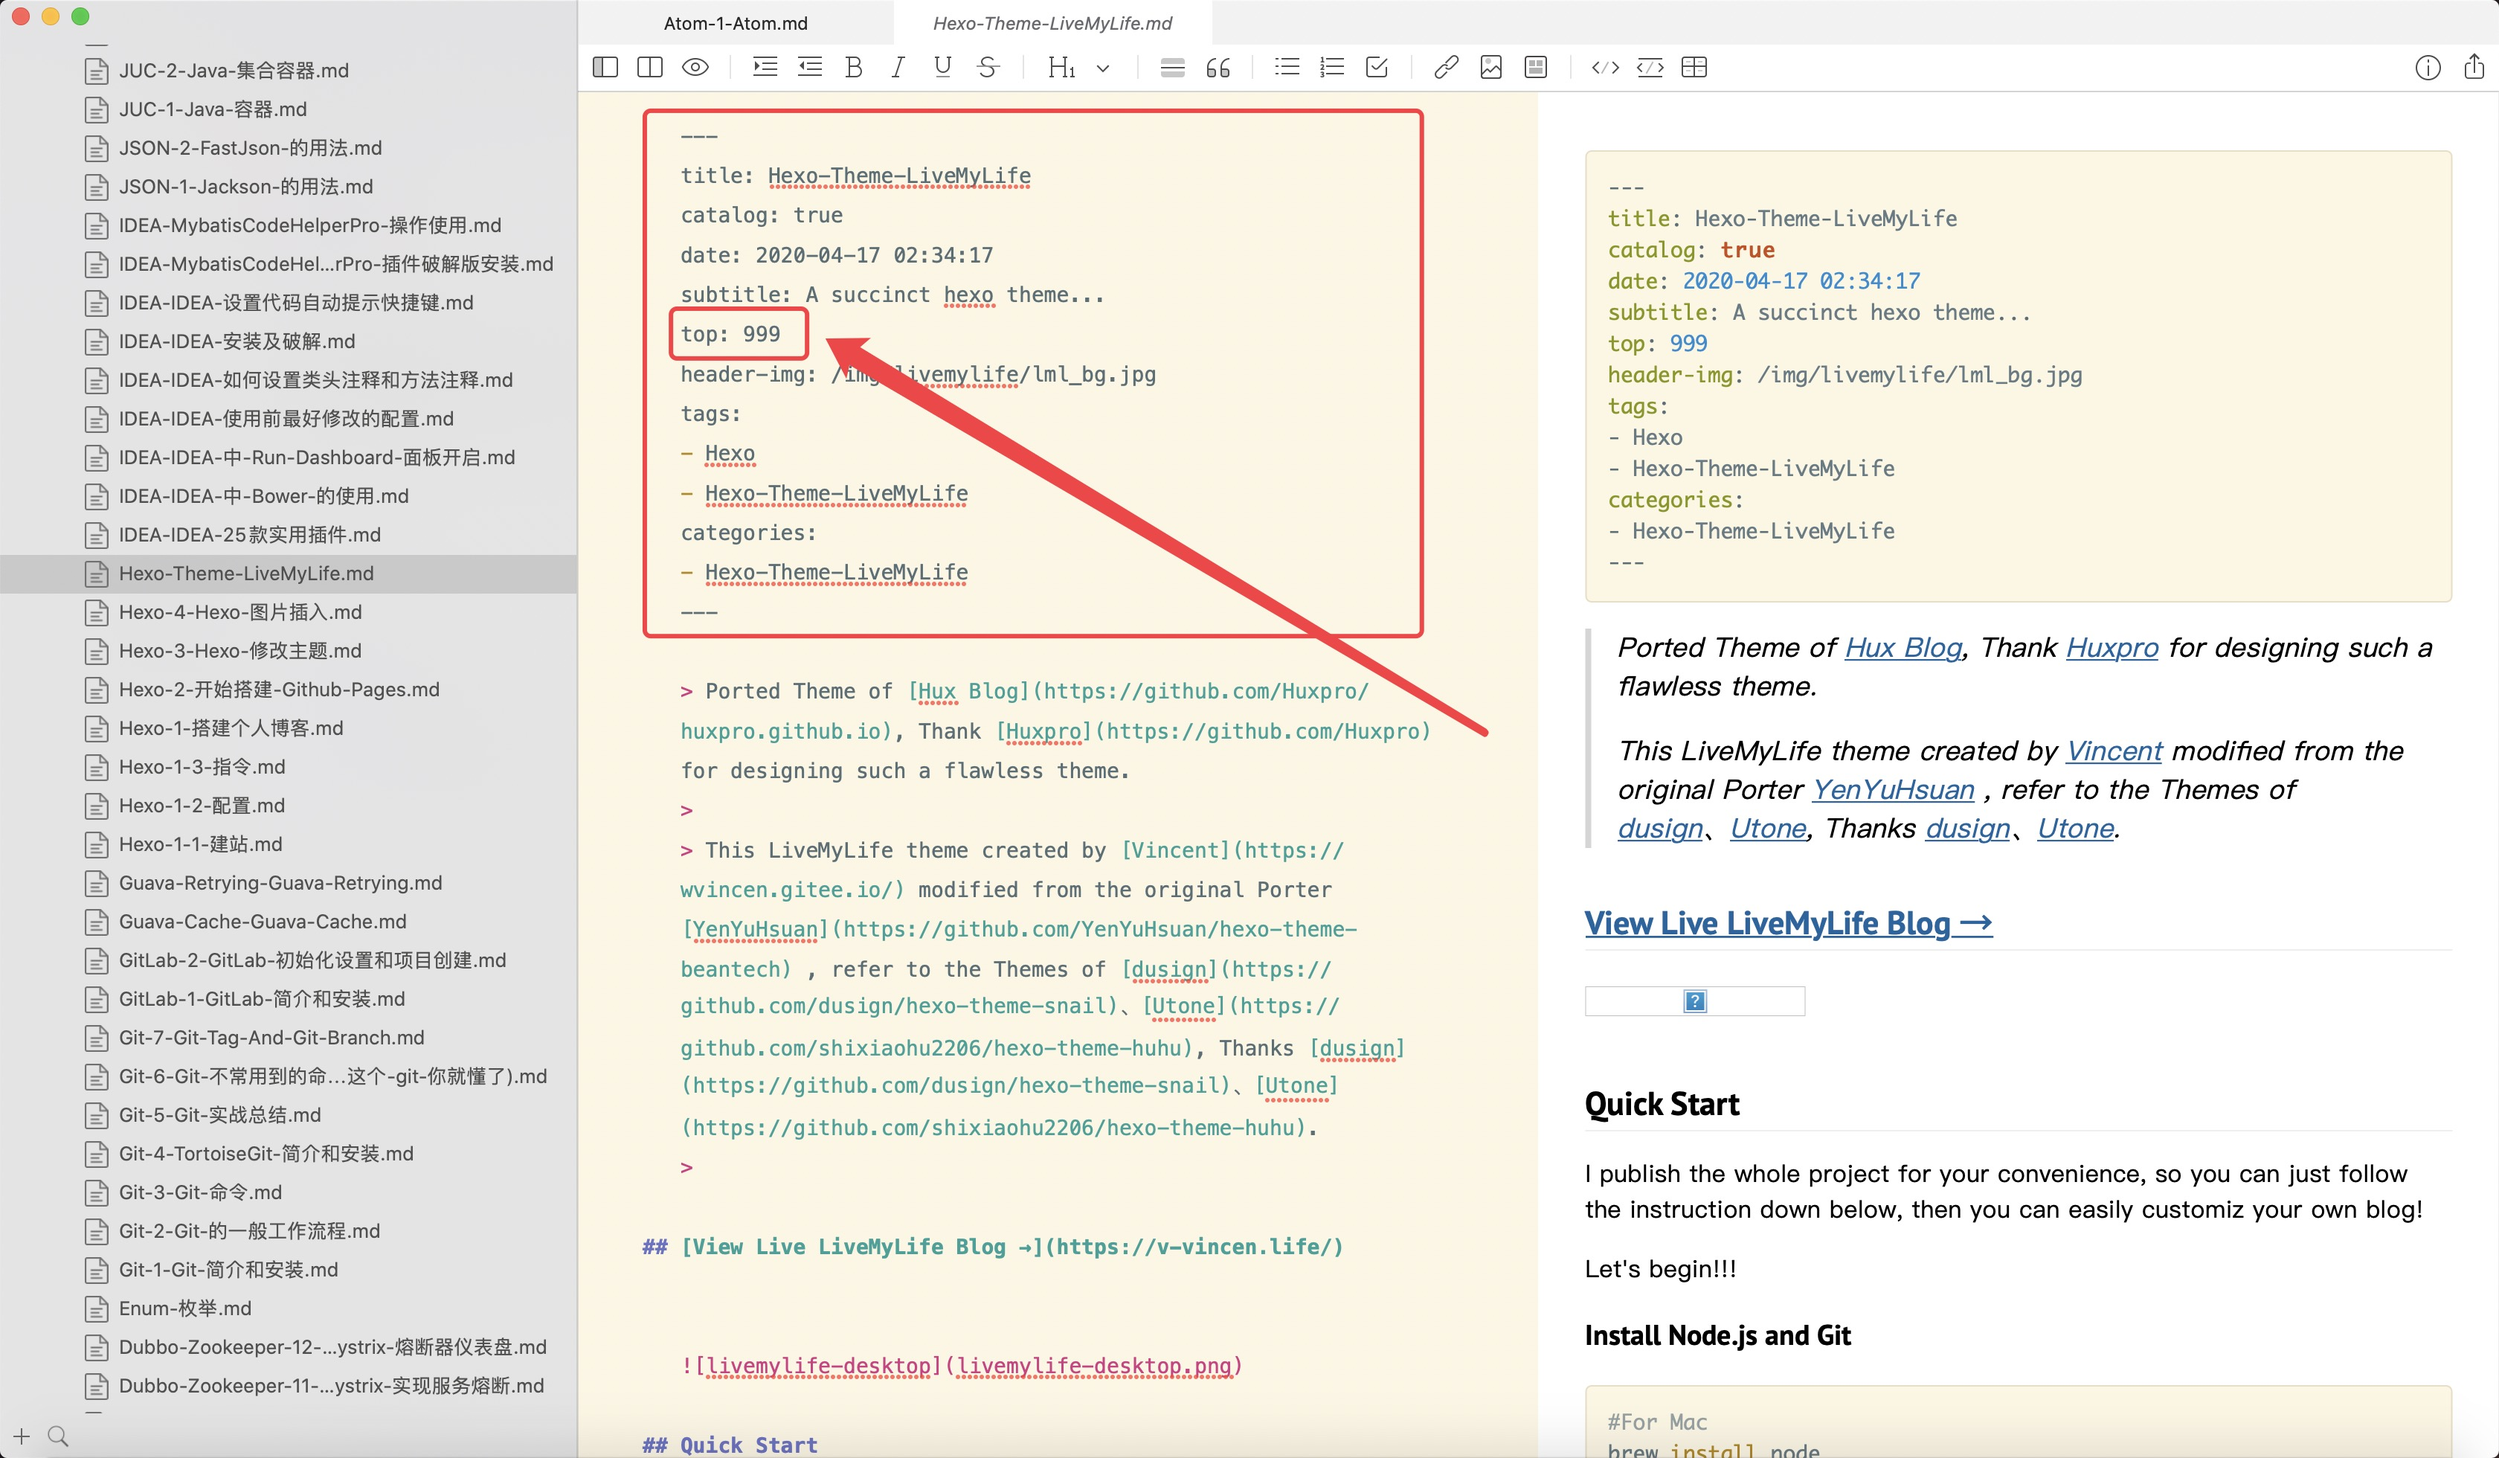
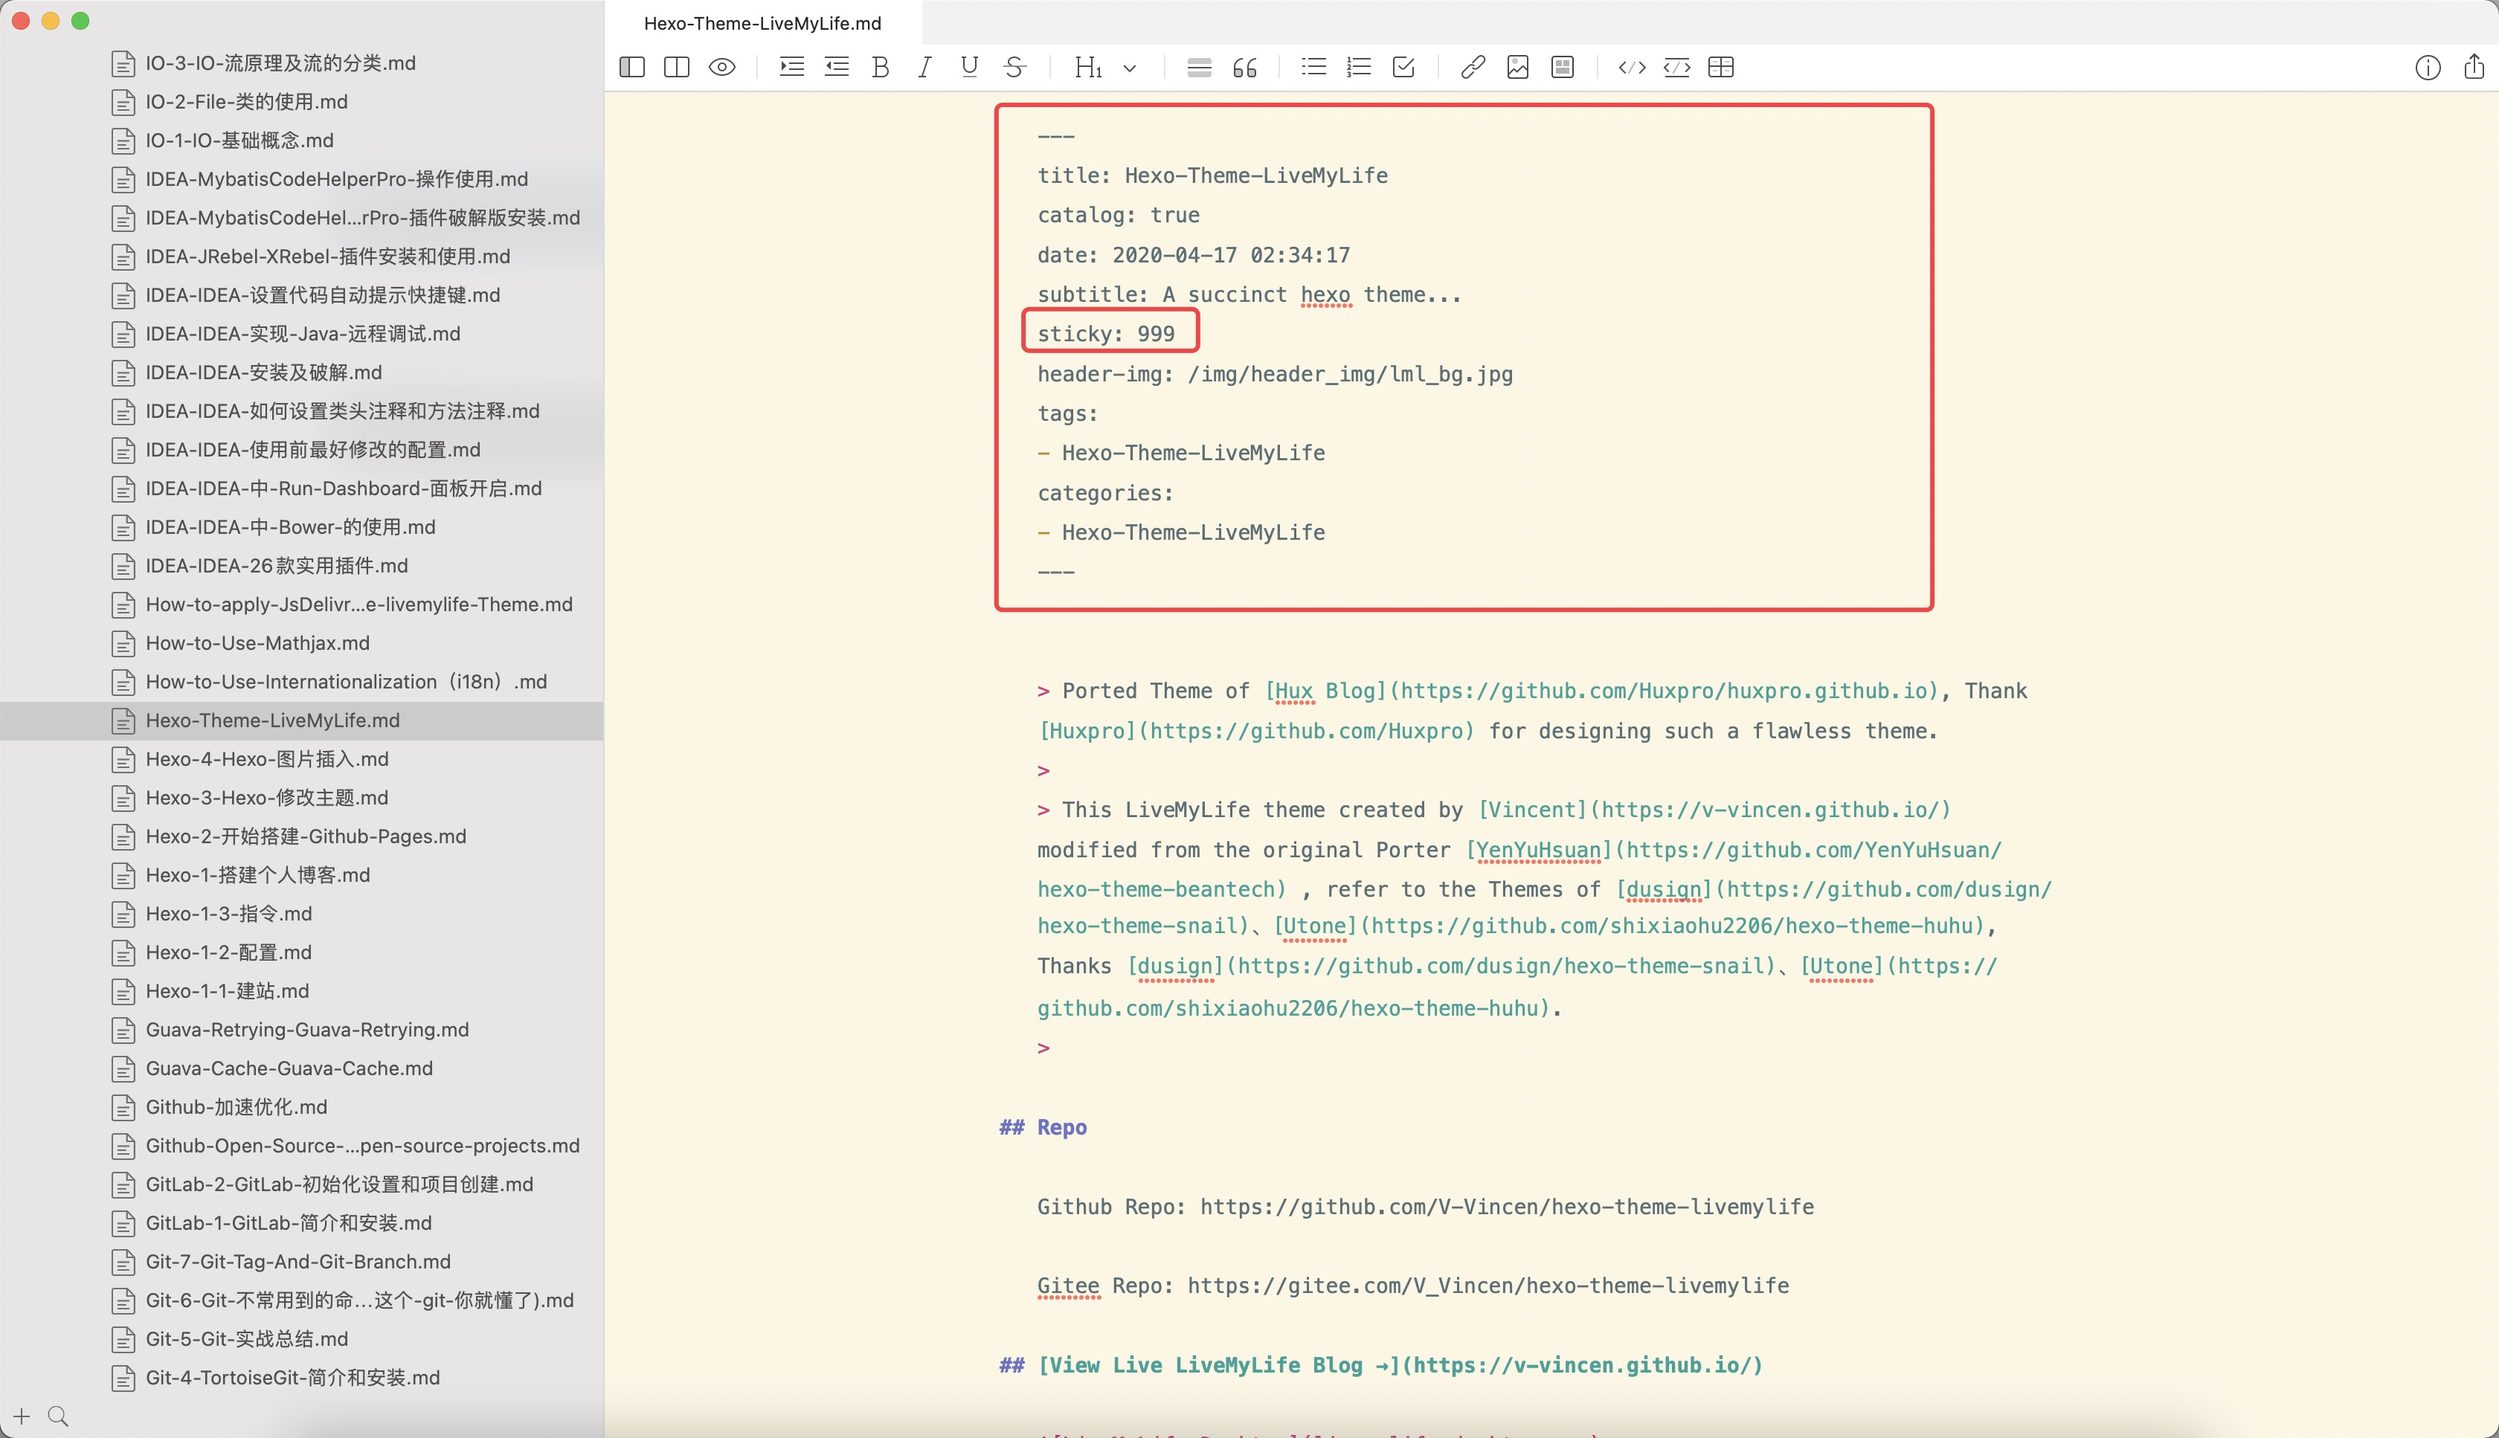
update

diff --git a/source/_posts/cn/Hexo-Theme-LiveMyLife.md b/source/_posts/cn/Hexo-Theme-LiveMyLife.md
@@ -3,7 +3,7 @@ title: Hexo-Theme-LiveMyLife
 catalog: true
 date: 2020-04-17 02:34:17
 subtitle: A succinct hexo theme...
-lang: cn
+sticky: 999
 header-img: /img/header_img/lml_bg.jpg
 tags:
 - Hexo-Theme-LiveMyLife
@@ -96,12 +96,56 @@ Replace the following information with your own.
 title: Live My Life
 subtitle: 淡而无味也是一种味道
 author: Mr.Vincent
-language: zh-CN
 timezone:
 ```
 
+### Internationalization (i18n)
+You can use internationalization to present your site in different languages. -> Docs：[How to Use Internationalization（i18n）](https://v-vincen.github.io/en/How-to-Use-Internationalization%EF%BC%88i18n%EF%BC%89/)
+```yml
+# Internationalization (i18n) Setting
+language: # At present, only en、cn and tw are supported. You can customize the language，refer to `languages/en.yml`.
+  - en
+  - cn
+
+langselect:
+  enable: true # If open, it will automatically generation lang-select button.This button can jump in articles in different languages, but the articles must have the same name.
+  options: # langselect button display options
+    en: English
+    cn: 简体中文
+    # tw: 正體中文
+
+i18n_dir: :lang  
+permalink: :lang/:title/ 
+new_post_name: :lang/:title.md
+
+# hexo-generator-i18n config
+## Docs: https://github.com/xcatliu/hexo-generator-index-i18n
+index_generator:
+  per_page: 10
+  pagination_dir: page
+  path: ''
+  order_by: -date
+
+archive_generator:
+  enabled: false
+  per_page: 10
+  yearly: true
+  monthly: true
+  daily: false
+  order_by: -date
+```
+
+*English preview:*
+
+![en](langen.png)
+
+*Chinese preview:*
+
+![cn](langcn.png)
+
+
 ### CDN Settings
-JsDelivr is A free CDN for Open Source fast、reliable and automated. If Github Pages deploy，you can config CDN settings. The images of the Hexo-theme-livemylife has added JsDelivr CDN Setting. How to use Jsdelivr? -> Docs：[免费 CDN 提速 Github 静态资源访问](https://v-vincen.github.io/2020/07/15/Github-%E5%8A%A0%E9%80%9F%E4%BC%98%E5%8C%96/#%E5%85%8D%E8%B4%B9-CDN-%E6%8F%90%E9%80%9F-Github-%E9%9D%99%E6%80%81%E8%B5%84%E6%BA%90%E8%AE%BF%E9%97%AE)
+JsDelivr is A free CDN for Open Source fast、reliable and automated. How to use Jsdelivr? -> Docs：[免费 CDN 提速 Github 静态资源访问](https://v-vincen.github.io/en/Github-%E5%8A%A0%E9%80%9F%E4%BC%98%E5%8C%96/#%E5%85%8D%E8%B4%B9-CDN-%E6%8F%90%E9%80%9F-Github-%E9%9D%99%E6%80%81%E8%B5%84%E6%BA%90%E8%AE%BF%E9%97%AE)
 ```yml
 # CDN Setting
 # Docs: https://www.jsdelivr.com/?docs=gh
@@ -111,6 +155,7 @@ jsdelivr:
   jsdelivr_url: https://cdn.jsdelivr.net/gh/
   github_username: V-Vincen
 ```
+**Note:** The theme of Hexo-theme-livemylife has a large number of css、js and images, in order to improve access speed, the theme for all of the resource files are made JsDelivr CDN. But only for Github Pages deployment. -> Docs：[How to apply JsDelivr CDN in Hexo-theme-livemylife Theme](https://v-vincen.github.io/en/How-to-apply-JsDelivr-CDN-in-Hexo-theme-livemylife-Theme/)
 
 ### Site Settings
 Put customized pictures in img directory.
@@ -142,7 +187,7 @@ signature-img: img/signature/<your-signature>
 # Wave settings
 wave: true
 ```
-Example:
+*Example:*
 
 ![wave](wave.png)
 
@@ -216,7 +261,7 @@ gitalk:
   createIssueManually: false      # By default, Gitalk will create a corresponding github issue for your every single page automatically when the logined user is belong to the admin users. You can create it manually by setting this option to true
   language: en                    # Localization language key, en, zh-CN and zh-TW are currently available.
   maxCommentHeight: 250           # An optional number to limit comments' max height, over which comments will be folded.Default 250.
-  proxy:                          # GitHub oauth request reverse proxy for CORS. For example, the demo url is 'https://cors-anywhere.herokuapp.com/https://github.com/login/oauth/access_token'.You should deploy your own proxy url as in this issue https://github.com/gitalk/gitalk/issues/429.
+  proxy: https://cors-anywhere.azm.workers.dev/https://github.com/login/oauth/access_token                         # GitHub oauth request reverse proxy for CORS. For example, the demo url is 'https://cors-anywhere.herokuapp.com/https://github.com/login/oauth/access_token'.You should deploy your own proxy url as in this issue https://github.com/gitalk/gitalk/issues/429.
 ```
 
 #### Gitment
@@ -243,7 +288,7 @@ disqus_username: your-disqus-ID
 
 
 ### Analytics Settings
-How to config analytics? -> Docs：[Analytics and Sitemap Settings](https://v-vincen.github.io/2020/07/21/Analytics-and-Sitemap-Settings/)
+How to config analytics? -> Docs：[Analytics and Sitemap Settings](https://v-vincen.github.io/en/Analytics-and-Sitemap-Settings/)
 ```yml
 # Analytics settings
 # Google Analytics
@@ -254,7 +299,7 @@ ba_track_id: ba_track_id
 ```
 
 ### Sitemap Settings
-How to config sitemap? -> Docs：[Analytics and Sitemap Settings](https://v-vincen.github.io/2020/07/21/Analytics-and-Sitemap-Settings/)
+How to config sitemap? -> Docs：[Analytics and Sitemap Settings](https://v-vincen.github.io/en/Analytics-and-Sitemap-Settings/)
 ```yml
 # Google sitemap
 sitemap:
@@ -276,7 +321,7 @@ You can decide to show post tags or not.
 ```yml
 home_posts_tag: true
 ```
-Example:
+*Example:*
 
 ![home_posts_tag-true](home_posts_tag-true.png)
 
@@ -295,6 +340,9 @@ markdown:
     typographer: true
     quotes: '“”‘’'
 ```
+
+### Install Mathjax
+To install Mathjax, please click [How to Use Mathjax](https://v-vincen.github.io/en/How-to-Use-Mathjax/) for a detailed tutorial.
 
 ### Anchorjs Settings
 And if you want to change the header anchor '❡', you can go to `layout/_partial/anchorjs.ejs` to change it. How to use anchorjs, see [AnchorJS](https://www.bryanbraun.com/anchorjs/#examples) for detailed examples.
@@ -320,9 +368,9 @@ async("//cdn.bootcss.com/anchor-js/1.1.1/anchor.min.js",function(){
 # article top
 top: true
 ```
-Hexo-theme-livemylife has added the article top function, just add `top: number` configuration to your markdown notes, articles are sorted by this number.
+Hexo-theme-livemylife has added the article top function, just add `sticky: number` configuration to your markdown notes, articles are sorted by this number.
 
-Example:
+*Example:*
 
 ![top](top.png)
 
@@ -352,7 +400,7 @@ scroll: true
 ```yml
 tip:
   enable: true
-  copyright: Say what you think...
+  copyright: Say what you think... # If the copyright is blank, the default value will be used.
 ```
 
 ### Social Share Post
@@ -371,14 +419,63 @@ viewer: true
 ### Theme Color Config
 Hexo-Theme-LiveMyLife temporarily supports two themes color.
 ```yml
-themecolor: true
+# ThemeColor config
+themecolor:
+  enable: true
+  mode: dark # themecolor mode light or dark, default light
 ```
-Light theme preview：
+*Light theme preview:*
 ![light theme](light.png)
 
-Dark theme preview：
+*Dark theme preview:*
 ![dark theme](dark.png)
 
+
+### Mouseclick Config
+```yml
+# Mouseclick config
+mouseclick:
+  enable: true
+  content:
+    - The first step is as good as half over...
+    - Laugh and grow fat...
+    - Man proposes God disposes...
+    - When all else is lost the future still remains...
+    - Wasting time is robbing oneself...
+    - Sharp tools make good work...
+    - Cease to struggle and you cease to live...
+    - A friend in need is a friend indeed...
+    - Faith can move mountains...
+  color:
+    - '#9933CC'
+    - '#339933'
+    - '#66CCCC'
+    - '#FF99CC'
+    - '#CCCCFF'
+    - '#6666CC'
+    - '#663399'
+    - '#66CC99'
+    - '#FF0033'
+```
+
+*Mouseclick preview：*
+![mouseclick](mouseclick.png)
+
+
+### Ribbon Config
+```yml
+ribbonDynamic: true
+```
+*Ribbon preview：*
+![ribbon](ribbon.png)
+
+
+### BgLineCanvas Config
+```yml
+bglinecanvas: true  # The special effects will take up a lot of cpu resorces, please open it carefully.
+```
+*BgLineCanvas preview：*
+![bglinecanvas](bglinecanvas.png)
 
 
 ### Search Settings

diff --git a/README.md b/README.md
@@ -125,6 +125,13 @@ archive_generator:
   order_by: -date
 ```
 
+*English preview:*
+
+![en](/source/_posts/en/Hexo-Theme-LiveMyLife/langen.png)
+
+*Chinese preview:*
+
+![cn](/source/_posts/en/Hexo-Theme-LiveMyLife/langcn.png)
 
 
 ### CDN Settings
@@ -407,9 +414,11 @@ Hexo-Theme-LiveMyLife temporarily supports two themes color.
 themecolor: true
 ```
 *Light theme preview:*
+
 ![light theme](/source/_posts/en/Hexo-Theme-LiveMyLife/light.png)
 
 *Dark theme preview:*
+
 ![dark theme](/source/_posts/en/Hexo-Theme-LiveMyLife/dark.png)
 
 
@@ -441,6 +450,7 @@ mouseclick:
 ```
 
 *Mouseclick preview：*
+
 ![mouseclick](/source/_posts/en/Hexo-Theme-LiveMyLife/mouseclick.png)
 
 
@@ -449,6 +459,7 @@ mouseclick:
 ribbonDynamic: true
 ```
 *Ribbon preview：*
+
 ![ribbon](/source/_posts/en/Hexo-Theme-LiveMyLife/ribbon.png)
 
 
@@ -457,6 +468,7 @@ ribbonDynamic: true
 bglinecanvas: true  # The special effects will take up a lot of cpu resorces, please open it carefully.
 ```
 *BgLineCanvas preview：*
+
 ![bglinecanvas](/source/_posts/en/Hexo-Theme-LiveMyLife/bglinecanvas.png)
 
 

diff --git a/source/_posts/en/Hexo-Theme-LiveMyLife.md b/source/_posts/en/Hexo-Theme-LiveMyLife.md
@@ -135,6 +135,15 @@ archive_generator:
   order_by: -date
 ```
 
+*English preview:*
+
+![en](langen.png)
+
+*Chinese preview:*
+
+![cn](langcn.png)
+
+
 ### CDN Settings
 JsDelivr is A free CDN for Open Source fast、reliable and automated. How to use Jsdelivr? -> Docs：[免费 CDN 提速 Github 静态资源访问](https://v-vincen.github.io/en/Github-%E5%8A%A0%E9%80%9F%E4%BC%98%E5%8C%96/#%E5%85%8D%E8%B4%B9-CDN-%E6%8F%90%E9%80%9F-Github-%E9%9D%99%E6%80%81%E8%B5%84%E6%BA%90%E8%AE%BF%E9%97%AE)
 ```yml
